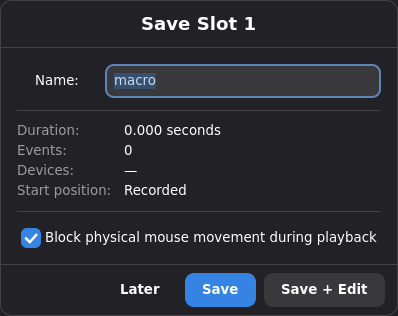
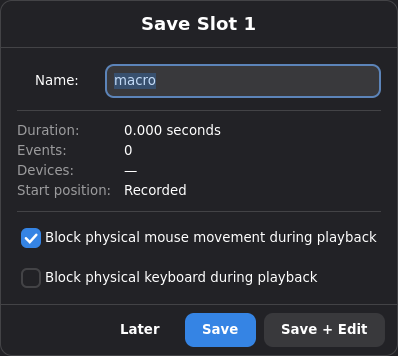
Regenerate macro screenshots and count the keyboard block scenario

diff --git a/tests/common/test_integration_runner.py b/tests/common/test_integration_runner.py
@@ -117,7 +117,7 @@ from runner import _scenario_key, selected_scenarios
 from scenarios import SCENARIOS
 
 keys = [_scenario_key(scenario.name) for scenario in SCENARIOS]
-assert len(SCENARIOS) == 60
+assert len(SCENARIOS) == 61
 assert len(keys) == len(set(keys))
 assert all(key and key.replace('-', '').isalnum() for key in keys)
 assert _scenario_key('simple 1->1 remap') == 'simple-1-1-remap'
@@ -164,7 +164,7 @@ def test_runner_lists_all_registered_scenarios_without_starting_context() -> Non
 
     assert result.returncode == 0, result.stderr
     lines = result.stdout.splitlines()
-    assert len(lines) == 60
+    assert len(lines) == 61
     assert "superkey-profile-handoff\tsuperkey profile handoff" in lines
     assert "source-hiding\tsource hiding" in lines
     assert "rollover-groups\trollover groups" in lines
